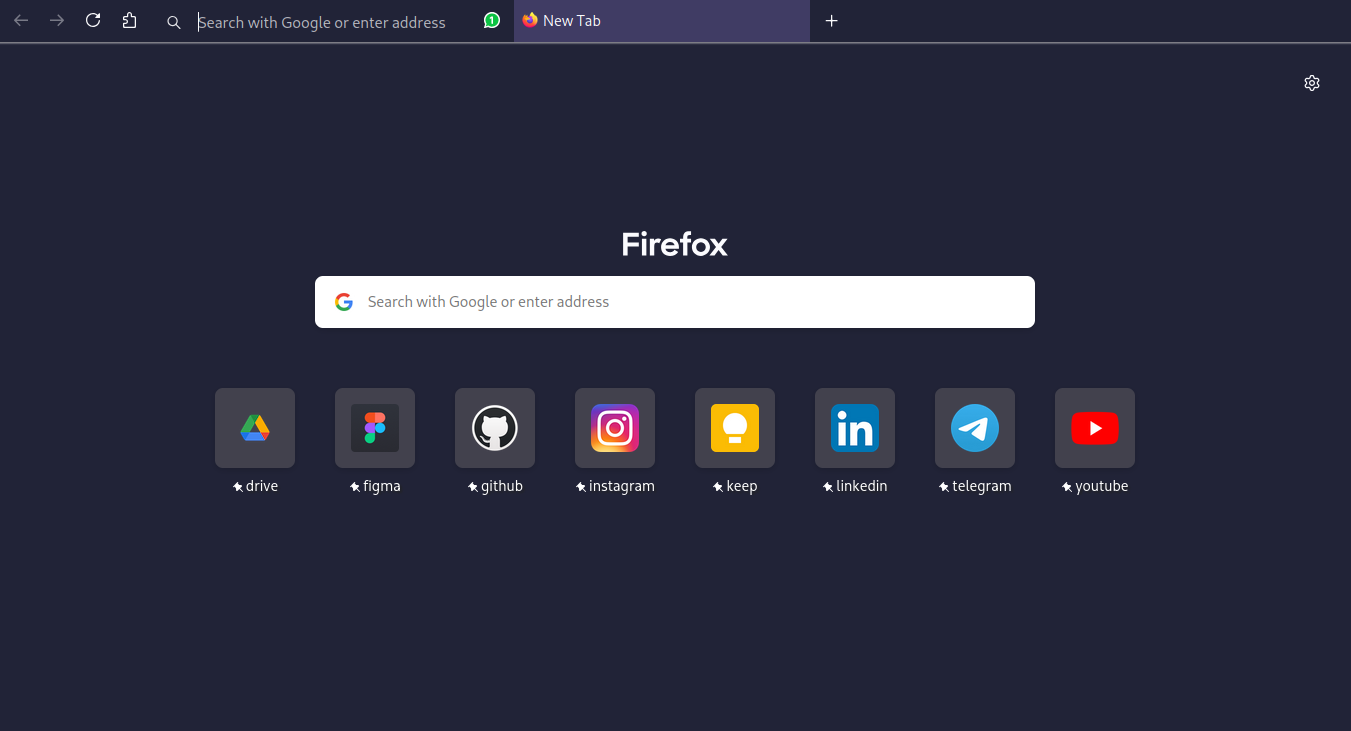
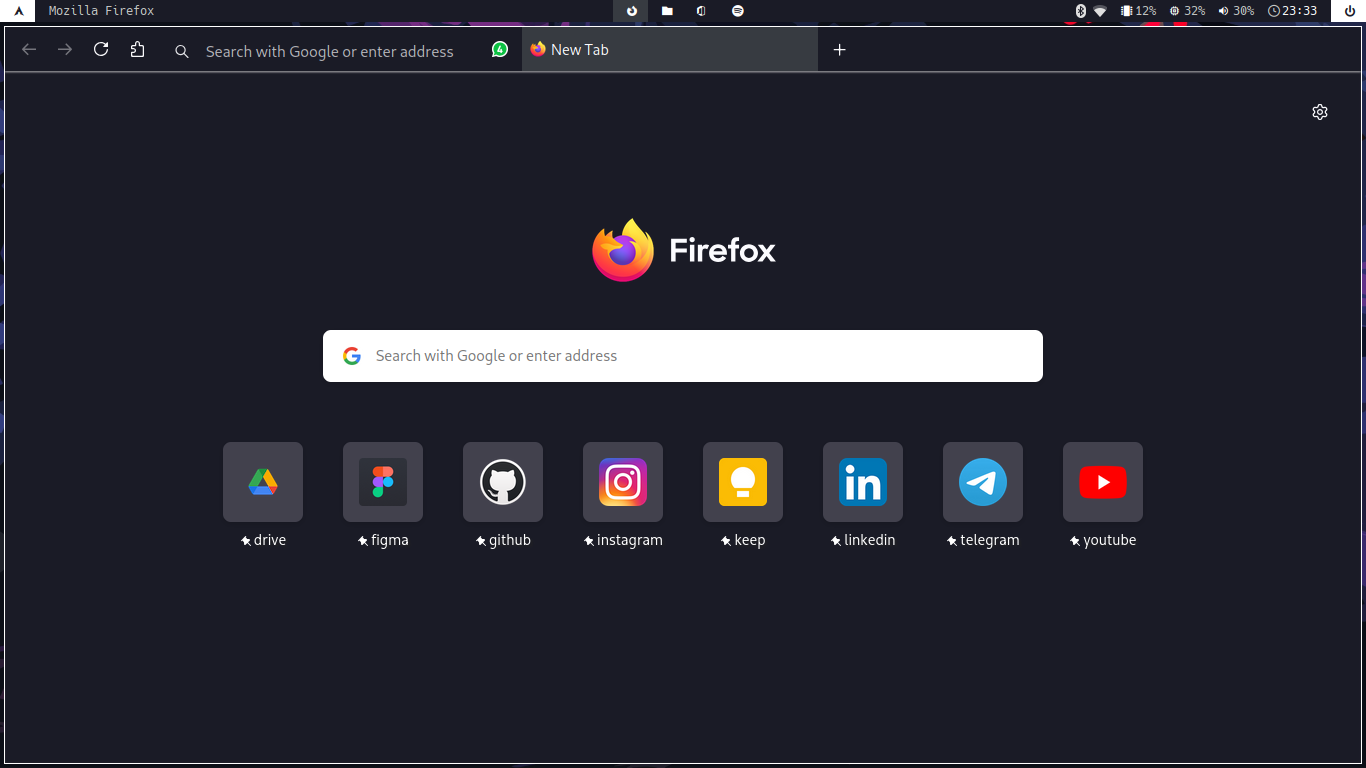
remove bumblebee-status from the bar

diff --git a/chrome/userContent.css b/chrome/userContent.css
@@ -12,24 +12,11 @@
     position: fixed;
     top: 0;
     left: 0;
-    background-color: #212337;
+    background-color: #1a1b26;
     background-size: cover;
     width: 100vw;
     height: 100vh;
     filter: blur(1px);
-  }
-
-  .logo {
-    display: none !important;
-  }
-
-  .wordmark,
-  .logo-and-wordmark {
-    margin: 0 !important;
-  }
-
-  .search-wrapper {
-    padding: 5 !important;
   }
 
   .search-handoff-button {

diff --git a/chrome/includes/cascade-colours.css b/chrome/includes/cascade-colours.css
@@ -16,8 +16,8 @@
     --uc-identity-colour-purple: #786fa6;
 
     /*  Cascades main Colour Scheme */
-    --uc-base-colour: #212337;
-    --uc-highlight-colour: #403c64;
+    --uc-base-colour: #1a1b26;
+    --uc-highlight-colour: #373b41;
     --uc-inverted-colour: #fafafc;
     --uc-muted-colour: #aaaaac;
     --uc-accent-colour: var(--uc-identity-colour-purple);

diff --git a/README.md b/README.md
@@ -1,9 +1,6 @@
 
 ## i3 Config
 
-#### Bumblebee Status
-![Bumblebee Status](https://github.com/deva3xd/config/blob/main/screenshot/bumblebee.png?raw=true)
-
 #### Polybar
 ![Polybar](https://github.com/deva3xd/config/blob/main/screenshot/polybar.png?raw=true)
 
@@ -12,22 +9,21 @@
 
 ## Package
 
-- awesome-terminal-fonts (bumblebee-status)
+- polybar
 - feh
 - rofi
 - i3lock-fancy
 - noto-fonts-cjk-vf
-- polybar (optional)
 
 ## Installation
 
 #### Bar
-1. Install all package
+1. Install package
 2. Clone repository
 ```
 git clone https://github.com/deva3xd/Dotfiles.git
 ```
-3. Copy folder i3, rofi to `~/.config/`
+3. Copy folder i3, rofi, polybar to `~/.config/`
 4. Reboot or restart i3wm (by default use $mod+Shift+r)
 
 #### Firefox CSS
